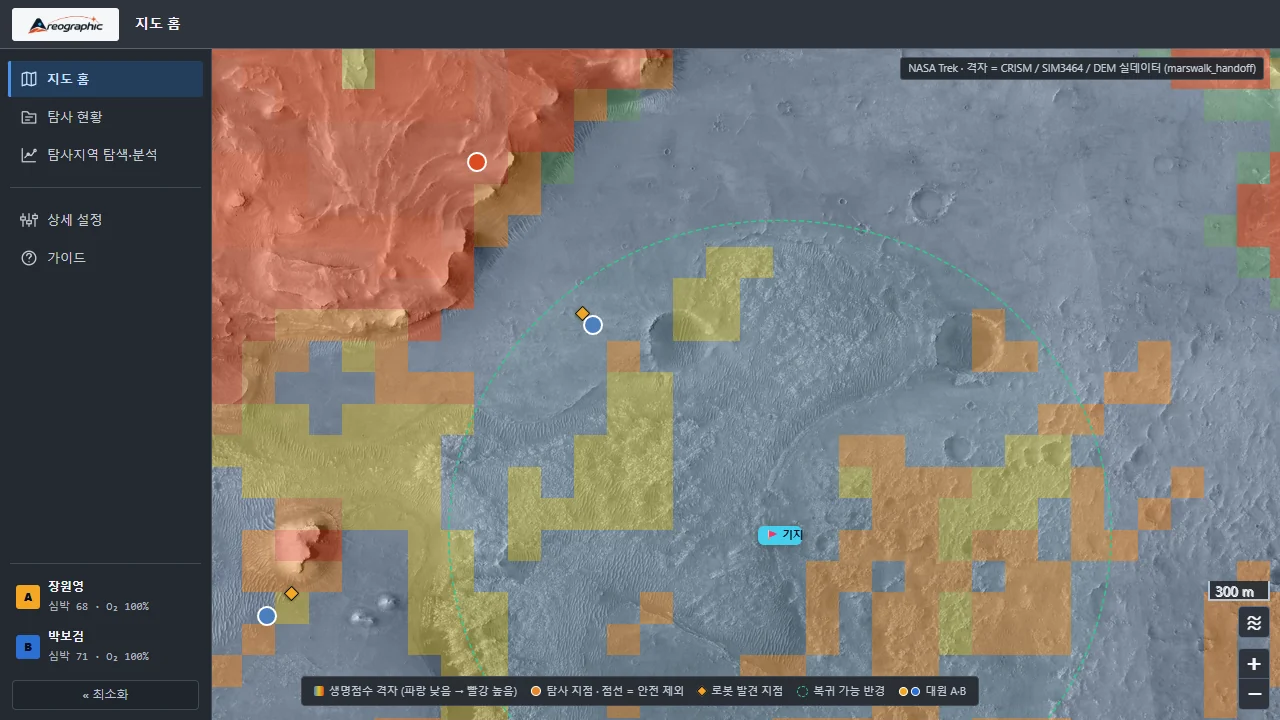
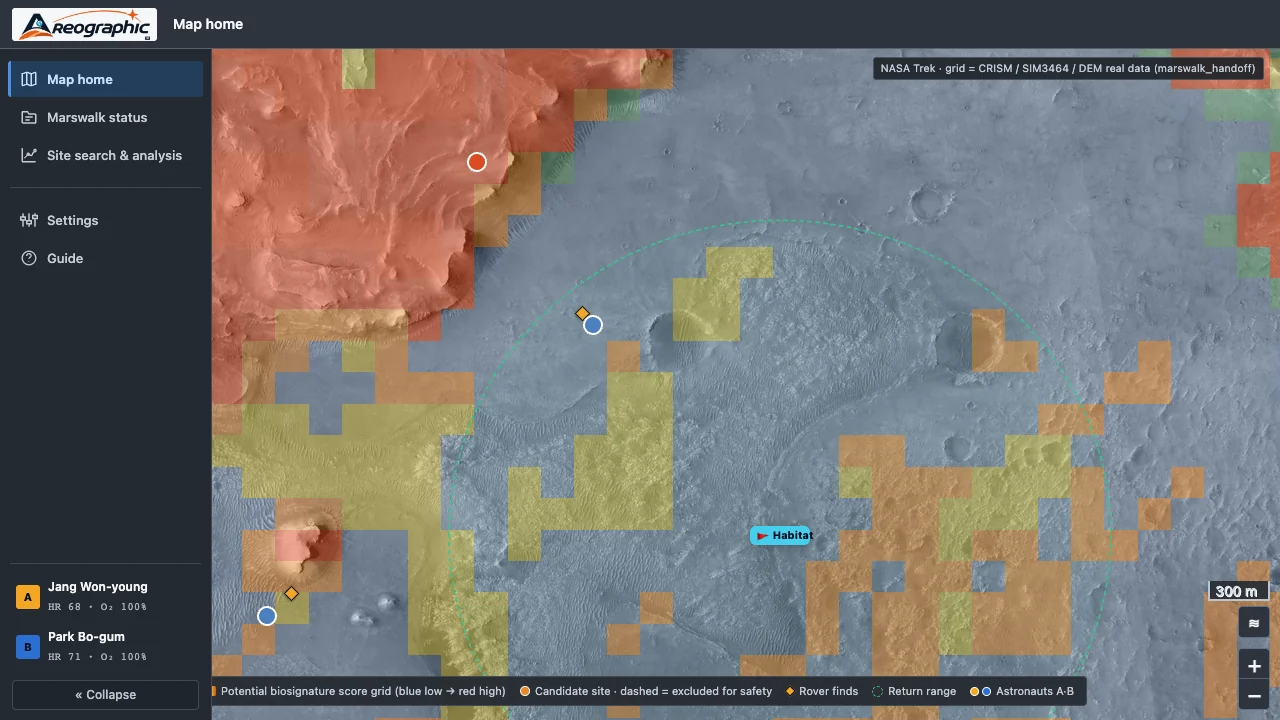
fix: turnaround row fits after the return starts; Save row always visible in planning-display modals; English habitat display preview
Claude-Session: https://claude.ai/code/session_012jxpv16dgFXqDqtkjAnn8D

diff --git a/src/hud/hud.js b/src/hud/hud.js
@@ -66,7 +66,7 @@ export function createHud(mission, terrain, hooks = {}) {
     <div class="hud-bl hud-plate"><div class="hud-k">${ICON.pulse} LIFE SUPPORT <small>simulated</small></div>
       <div class="ls-body"><div class="hud-bar vbar" aria-hidden="true"><i id="hud-o2bar"></i></div><div class="ls-rows">
       <div class="hud-row"><span class="o2l">O<sub>2</sub></span><b id="hud-o2"></b></div>
-      <div class="hud-row2"><span>${ICON.turn} TURNAROUND <small>time left to start return</small></span><b id="hud-turn"></b></div>
+      <div class="hud-row2"><span>${ICON.turn} TURNAROUND <small id="hud-turnk">time left to start return</small></span><b id="hud-turn"></b></div>
       <div class="hud-row2"><span>${ICON.rad} RADIATION <small>assumption · total</small></span><b id="hud-rad"></b></div></div></div></div>
     <div class="hud-br hud-plate"><div class="hud-k">${ICON.pin} NAVIGATION <small id="hud-navk">Nav</small></div>
       <div class="nv-top"><span class="nv-arrow" id="hud-navarrow">${ICON.arrow}</span><b id="hud-brg"></b><i class="nv-sep"></i><small>NEXT</small><b id="hud-next"></b></div>
@@ -262,7 +262,8 @@ export function createHud(mission, terrain, hooks = {}) {
       // ---- H1 life ----
       set('#hud-o2', st.o2.toFixed(1) + '%'); $('#hud-o2bar').style.height = st.o2 + '%'; // vertical gauge (visor theme)
       const tl = mission.turnaroundLeft(), started = st.returnStartedAt !== null;
-      setH('#hud-turn', started ? `Return started T+${fmtT(st.returnStartedAt)}` : (tl >= 0 ? fmtT(tl) : 'over ' + fmtT(-tl)) + `<span class="hud-turn-x"> · by T+${fmtT(PLAN.turnaroundSec)}</span>`); // deadline kept in the text, not drawn by the visor theme
+      { const k = $('#hud-turnk'), t = started ? 'return started' : 'time left to start return'; if (k && k.textContent !== t) k.textContent = t; } // the long sentence used to overflow the box once the return started
+      setH('#hud-turn', started ? `T+${fmtT(st.returnStartedAt)}` : (tl >= 0 ? fmtT(tl) : 'over ' + fmtT(-tl)) + `<span class="hud-turn-x"> · by T+${fmtT(PLAN.turnaroundSec)}</span>`); // deadline kept in the text, not drawn by the visor theme
       const turnLvl = started ? '' : tl < 0 ? 'warning' : tl < 120 ? 'caution' : ''; $('#hud-turn').className = turnLvl;
       setH('#hud-rad', `${PLAN.doseMsvPerDay} mSv/day<span class="hud-rad-x"> · ${st.doseUsv.toFixed(2)} µSv total</span>`);
       // ---- H1 nav / H5 return ----

diff --git a/pad/blueprint-theme.css b/pad/blueprint-theme.css
@@ -367,3 +367,6 @@ input { accent-color: var(--primary); }
   #kpibar { gap: 8px; }
   #kpiTrack { width: 64px; }
 }
+
+/* Settings / astronaut modals: the Save row stays visible at the bottom of the box (it used to need scrolling). */
+.modal .box > div:last-child:has(> button.pri) { position: sticky; bottom: -20px; margin: 14px -20px -20px !important; padding: 12px 20px; background: var(--card); border-top: 1px solid var(--line); z-index: 2; }

diff --git a/src/hud/mission-cards.css b/src/hud/mission-cards.css
@@ -49,3 +49,4 @@
 .hud .mc-target[data-side="left"] .mc-tlabel, .hud .mc-target[data-side="left"] .mc-tdist { transform: none; left: -28px; }
 .hud .mc-target[data-side="right"] .mc-tlabel, .hud .mc-target[data-side="right"] .mc-tdist { transform: translateX(-100%); left: 28px; }
 .hud .mc-target .mc-tdist { white-space: nowrap; }
+.hud.vt .hud-bl .hud-row2 b { white-space: nowrap; overflow: hidden; text-overflow: ellipsis; min-width: 0; }
